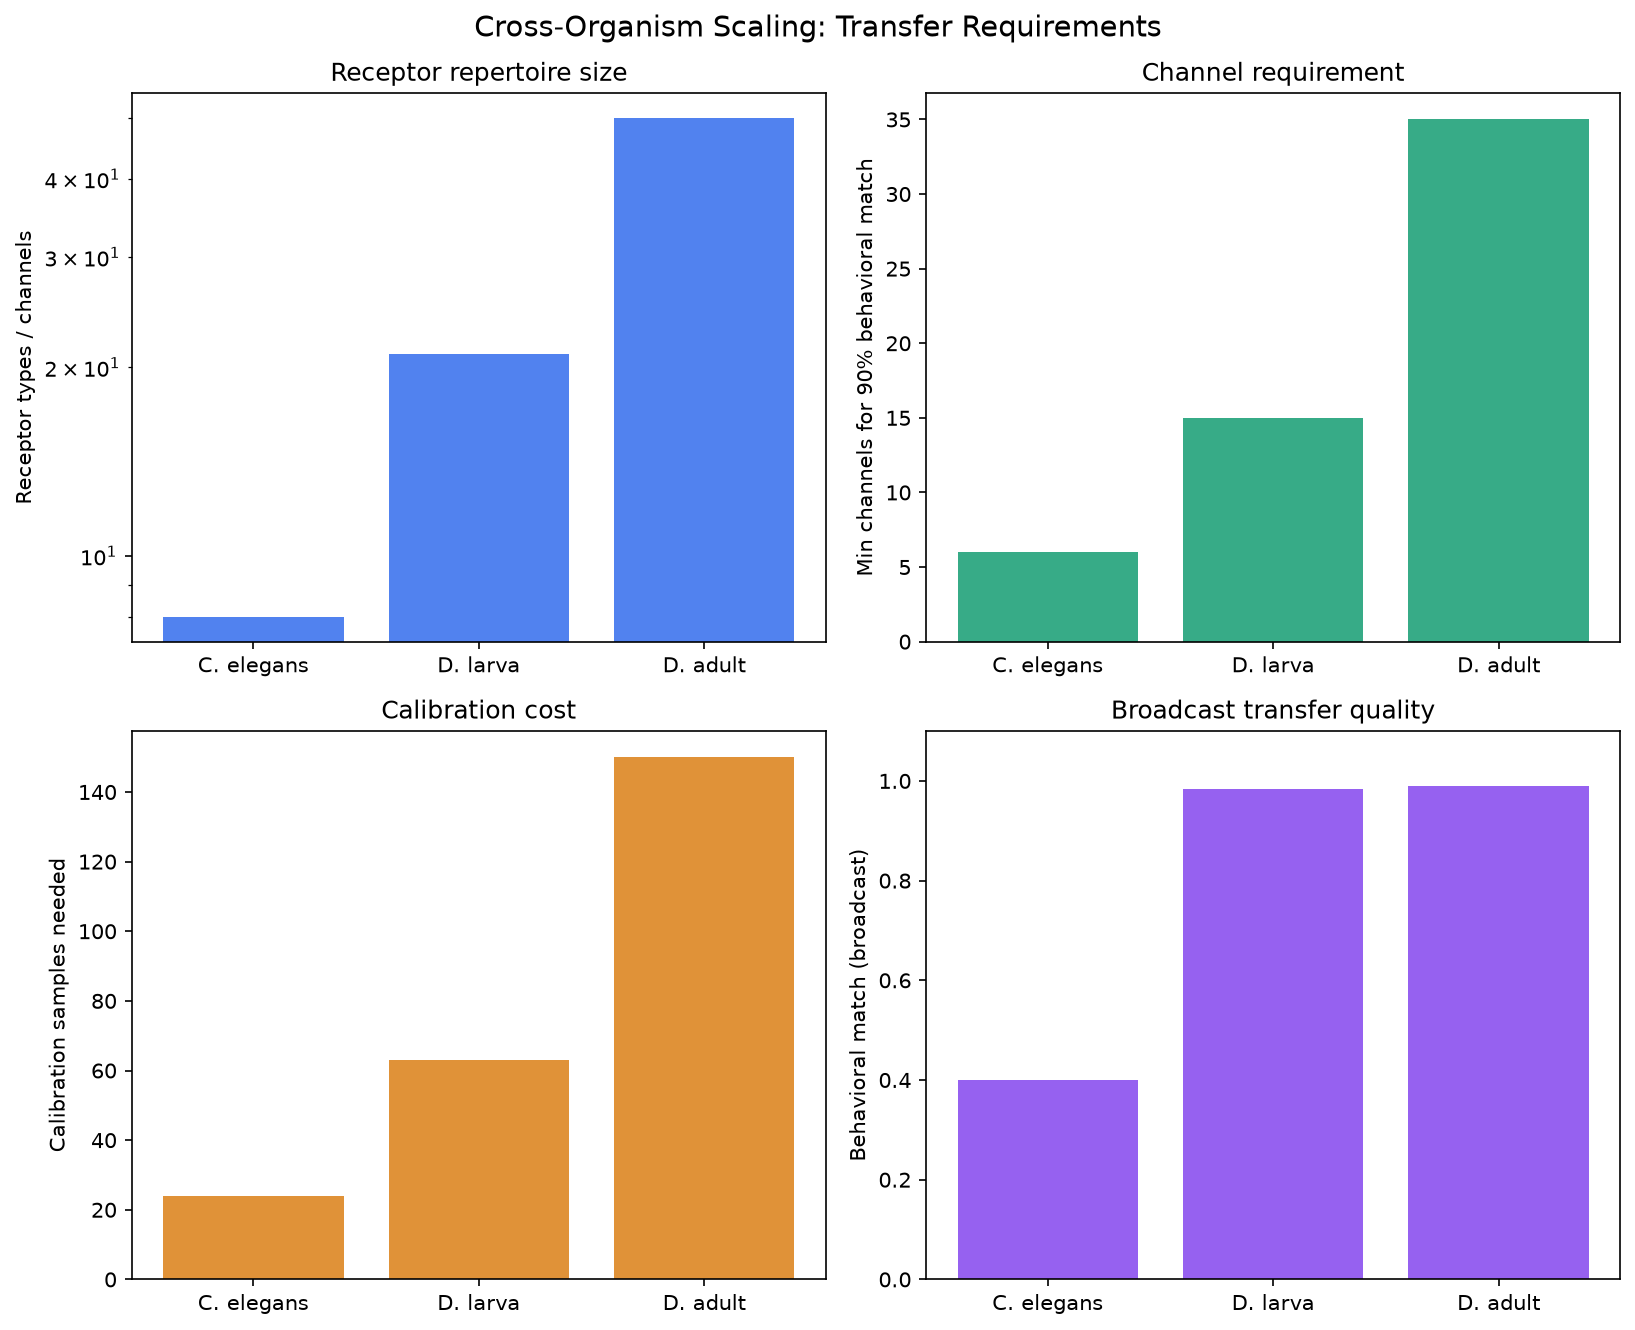
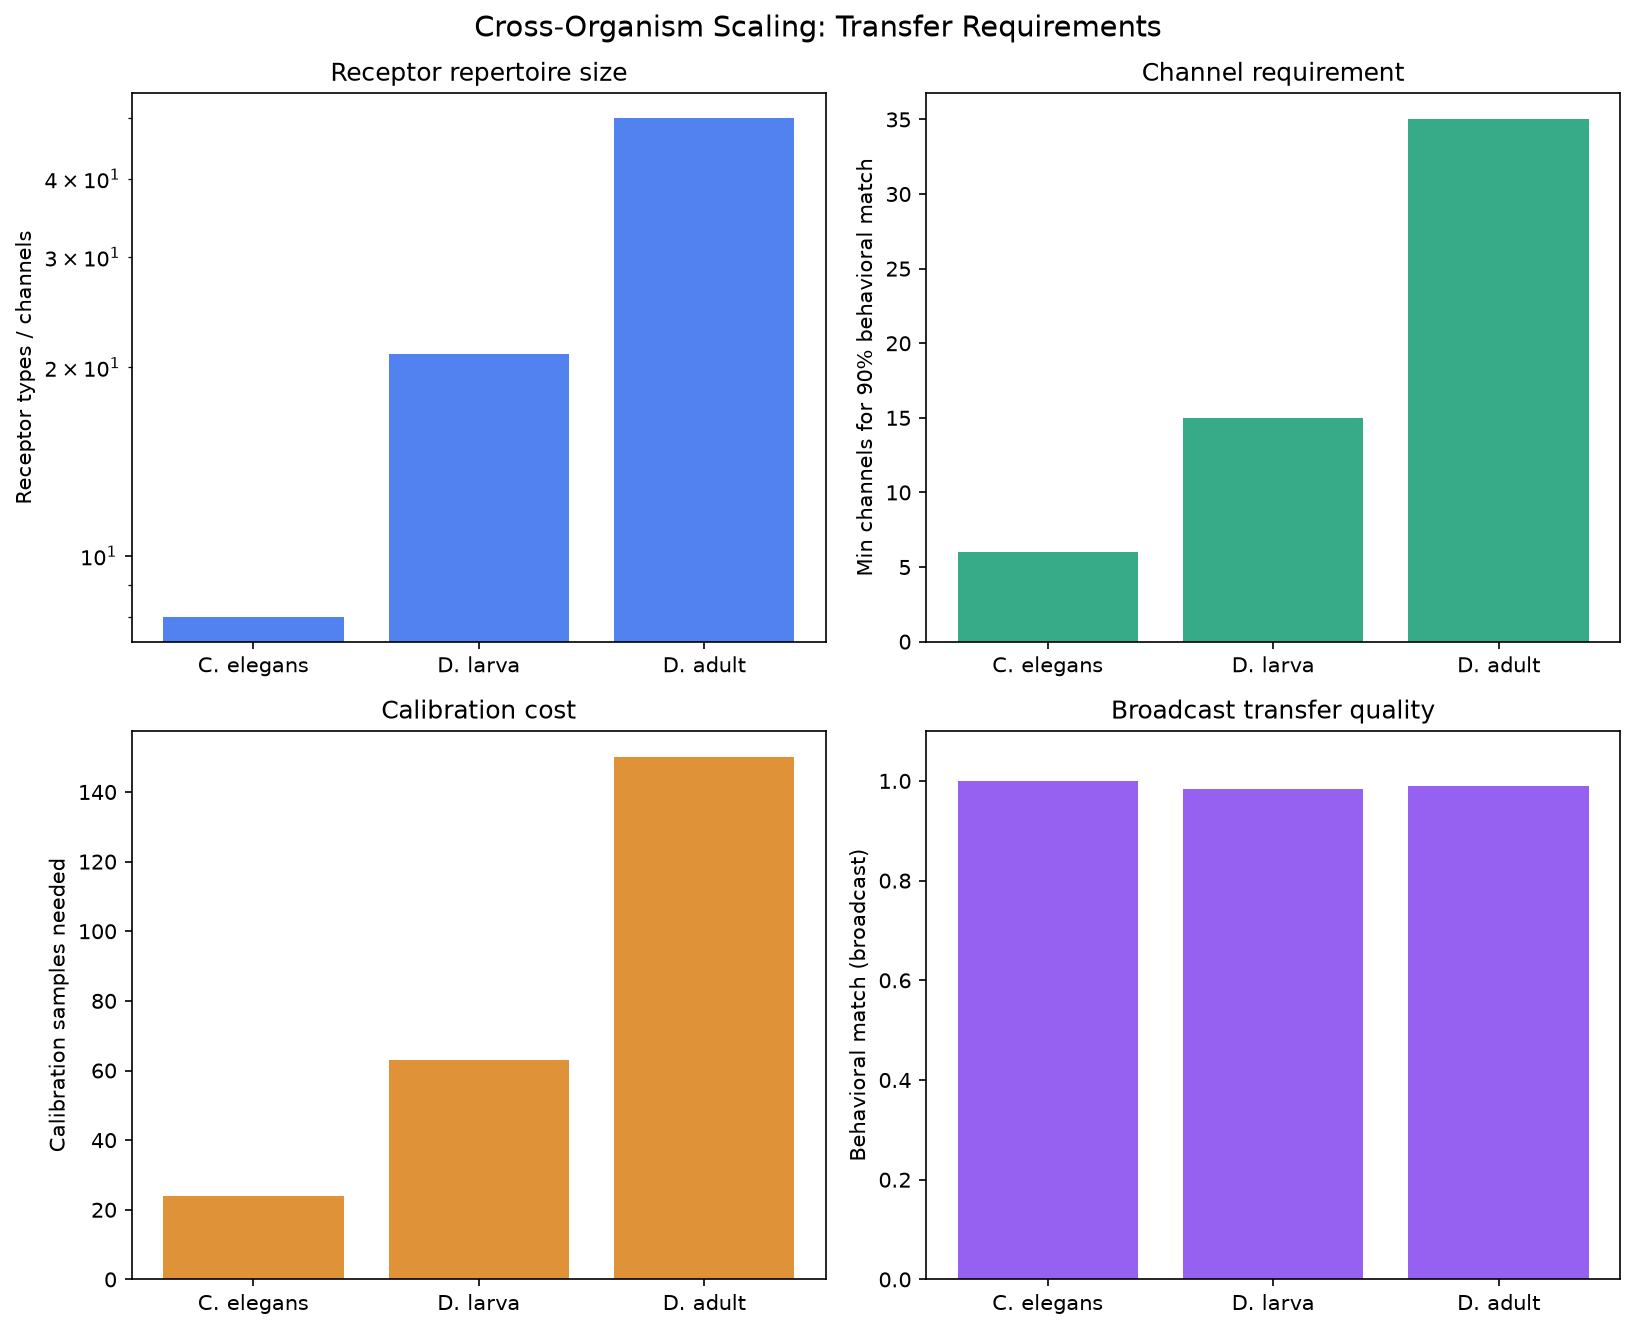
Tighten worm sanity check to require correct behaviors
The sanity check accepted "pause" as a valid repellent response, so
variants that couldn't reverse were included in transfer experiments
and always failed to match the sender's "reverse." This dragged worm
broadcast behavioral match down to 0.40. Now variants must produce
"forward" for attractive and "reverse" for repellent — filtering out
broken variants rather than counting their failures as transfer loss.

Changed region(s): [[0.5615, 0.5857, 0.7174, 0.8323]]

diff --git a/models/worm_variants.py b/models/worm_variants.py
@@ -66,7 +66,7 @@ class WormVariantGenerator:
 
         attractive = model.simulate(1.0, "attractive")
         repellent = model.simulate(1.0, "repellent")
-        return attractive["behavior"] in {"forward", "pause"} and repellent["behavior"] in {"reverse", "pause"}
+        return attractive["behavior"] == "forward" and repellent["behavior"] == "reverse"
 
     def generate_model_variant(
         self,
